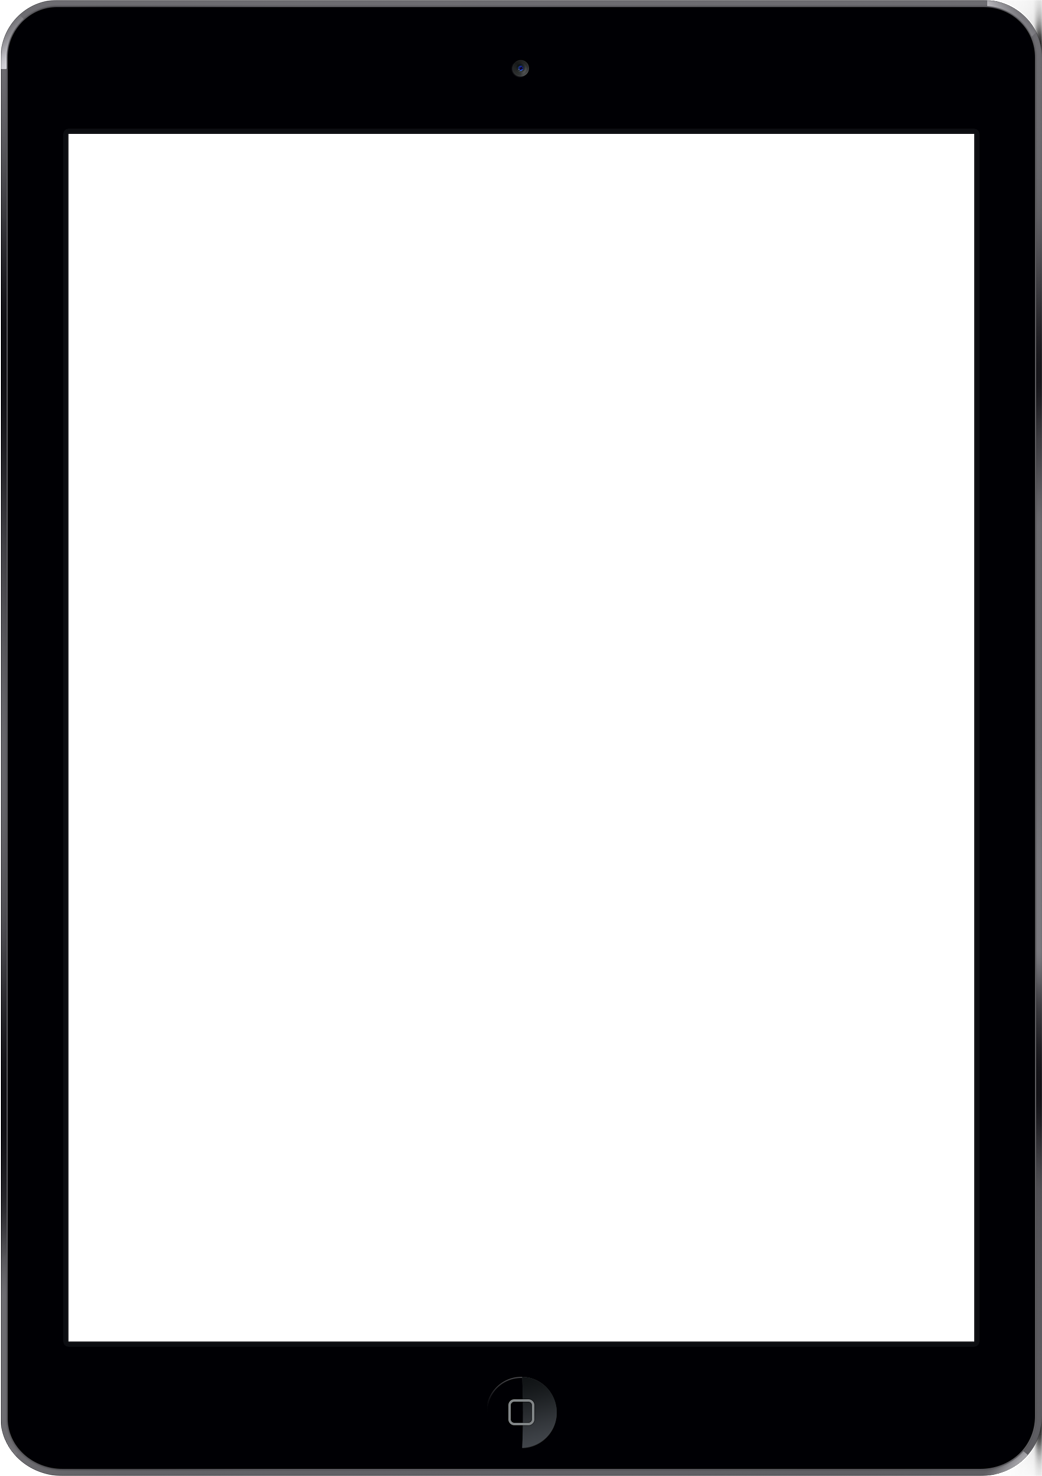
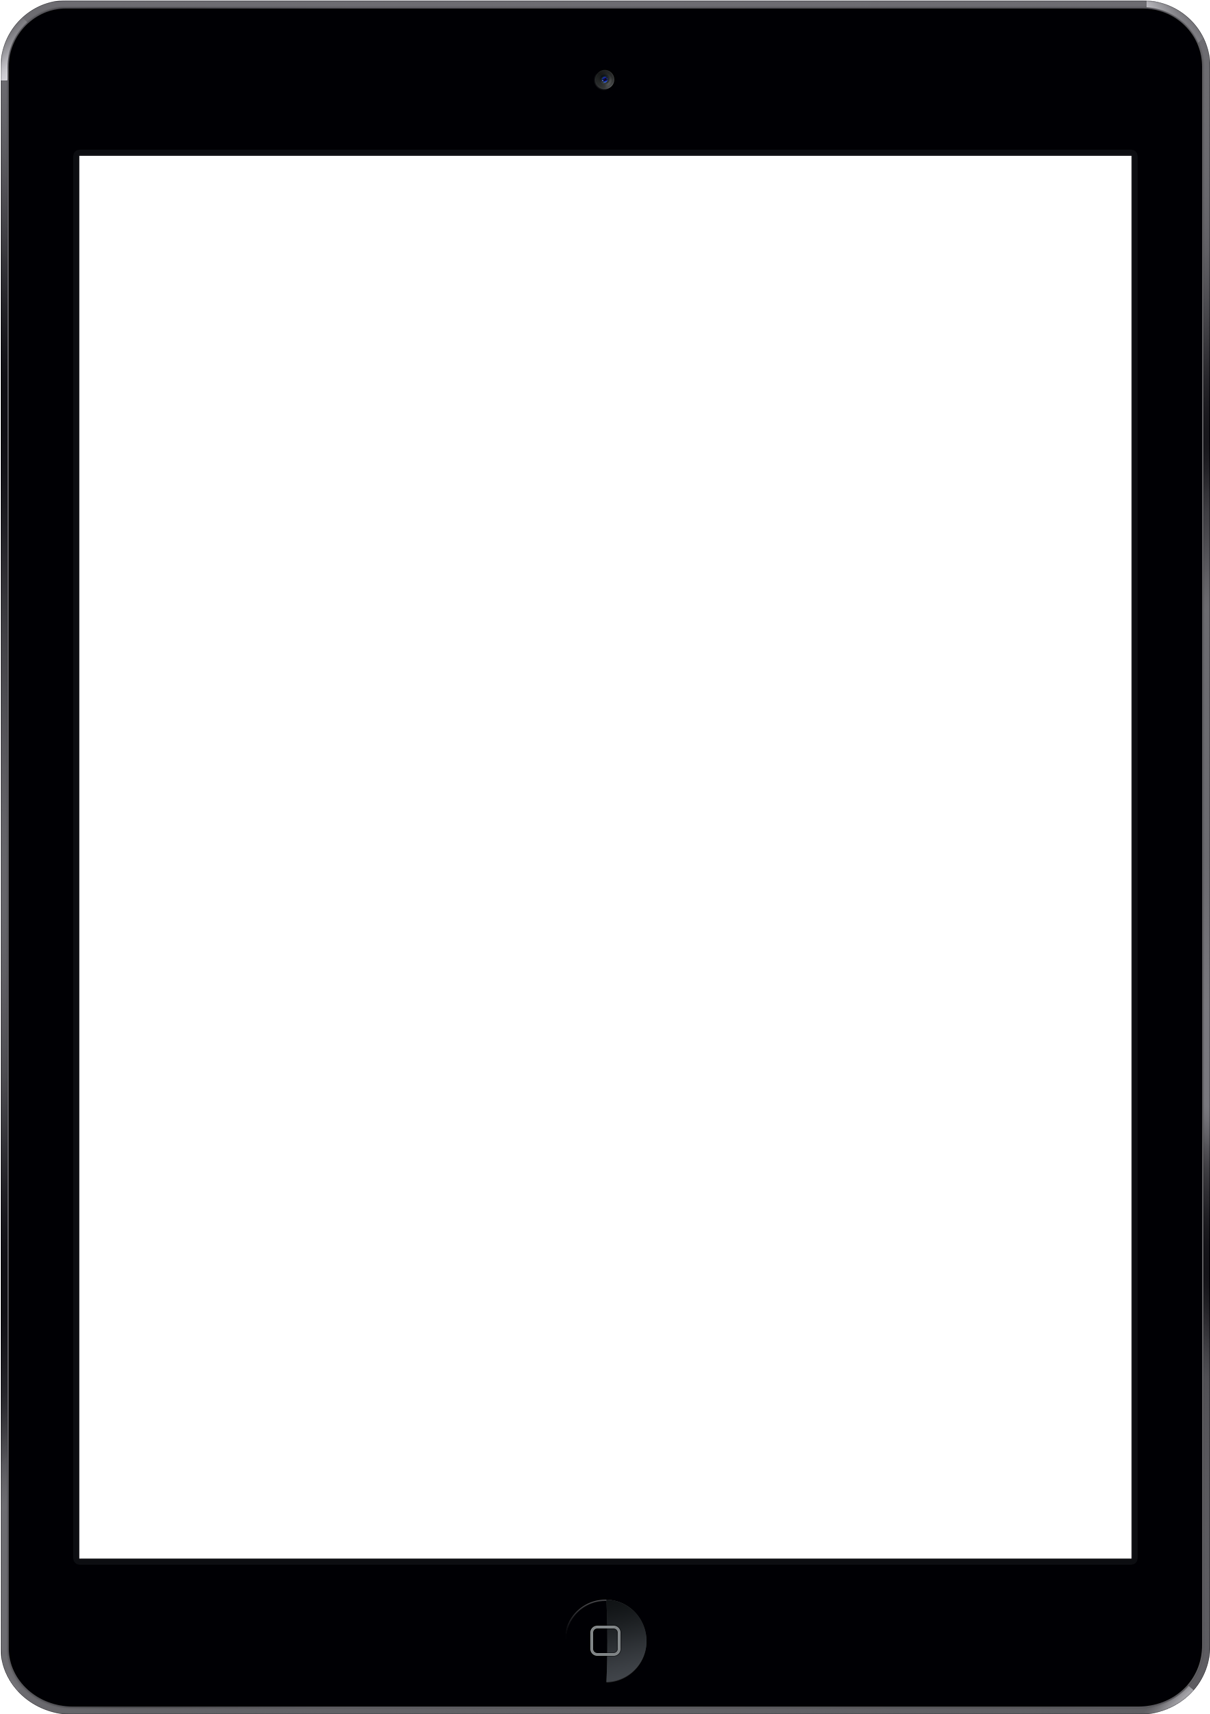
center frame in preview area

Changed region(s): [[0.0307, 0.9973, 0.9827, 1.0], [0.9827, 0.9661, 1.0, 0.9973], [0.9827, 0.0, 1.0, 0.0312]]

diff --git a/app/assets/stylesheets/pages/_export.scss b/app/assets/stylesheets/pages/_export.scss
@@ -40,6 +40,7 @@
 .pg-export-preview {
   position: relative;
   width: $pg-export-preview-width;
+  text-align: center;
 }
 
 .pg-export-frames-dropdown-wrap,
@@ -50,6 +51,7 @@
 
 .pg-export-preview-frame {
   position: relative;
+  display: inline-block;
 
   img {
     max-width: none;

diff --git a/app/assets/stylesheets/common/_variables.scss b/app/assets/stylesheets/common/_variables.scss
@@ -12,7 +12,7 @@ $color-type: #333;
 $color-type-light: #777;
 $color-white: #fff;
 $color-beige: #f2f0ed;
-$color-grey-light: #e5e5e5;
+$color-grey-light: #efefef;
 $color-grey-light-med: #f6f3f0;
 $color-grey-med: #ccc;
 $color-black: #000;

diff --git a/app/assets/stylesheets/common/_base.scss b/app/assets/stylesheets/common/_base.scss
@@ -7,7 +7,7 @@ html, body {
 }
 
 body {
-  background-color: #e0deda;
+  background-color: lighten(#e0deda, 5);
 }
 
 img {
